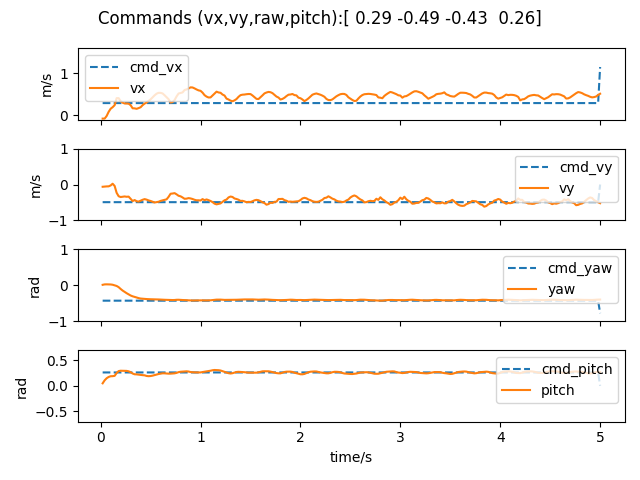
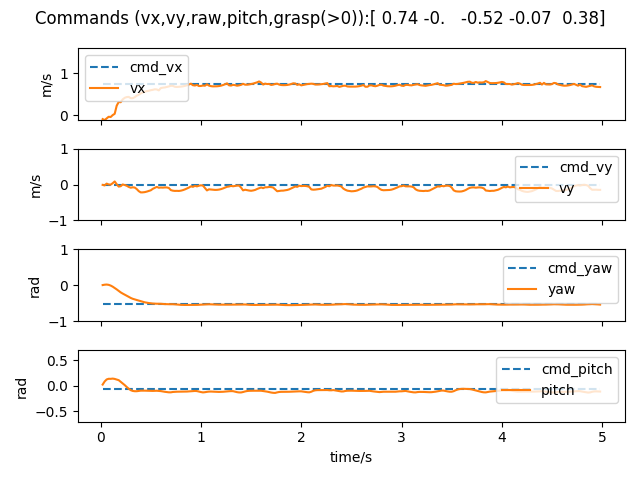
fix: plot vel bug

diff --git a/legged_gym/legged_gym/scripts/play.py b/legged_gym/legged_gym/scripts/play.py
@@ -168,7 +168,7 @@ def play(args):
                 actions = ppo_runner.alg.depth_actor(obs.detach(), hist_encoding=True, scandots_latent=depth_latent)
             else:
                 actions = policy(obs.detach(), hist_encoding=True, scandots_latent=depth_latent)
-        print(actions[:,-1])
+        # print(actions[:,-1])
         obs, _, rews, dones, infos = env.step(actions.detach())
         if args.web:
             web_viewer.render(fetch_results=True,
@@ -180,7 +180,7 @@ def play(args):
         cur_time = env.episode_length_buf[env.lookat_id].item() / 50
         time_hist.append(cur_time)
         cmd_hist.append(env.commands[env.lookat_id, :].tolist())
-        cur_state = env.base_lin_vel[env.lookat_id, :].tolist()[:2]
+        cur_state = env.root_states[env.lookat_id, 7:9].tolist() #base_lin_vel?
         cur_state.append(env.yaw[env.lookat_id].tolist())
         cur_state.append(env.pitch[env.lookat_id].tolist())
         state_hist.append(cur_state)
@@ -192,9 +192,9 @@ def play(args):
         
         id = env.lookat_id
         if cur_time == 0 or i == 5*int(env.max_episode_length)-1:
-            time_hist = np.array(time_hist[:-2])
-            cmd_hist = np.array(cmd_hist[:-2])
-            state_hist = np.array(state_hist[:-2])
+            time_hist = np.array(time_hist[:-3])
+            cmd_hist = np.array(cmd_hist[:-3])
+            state_hist = np.array(state_hist[:-3])
             fig,axs = plt.subplots(4,1,sharex=True)
             axs[0].plot(time_hist,cmd_hist[:,0],linestyle='--',label='cmd_vx')
             axs[0].plot(time_hist,state_hist[:,0],label='vx')
@@ -220,7 +220,7 @@ def play(args):
             axs[3].set_ylabel('rad')
             axs[3].set_ylim((-0.7,0.7))
             plt.xlabel('time/s')
-            fig.suptitle(f"Commands (vx,vy,raw,pitch):{np.round(cmd_hist[0,:], decimals=2)}")
+            fig.suptitle(f"Commands (vx,vy,raw,pitch,grasp(>0)):{np.round(cmd_hist[0,:], decimals=2)}")
             plt.tight_layout() 
             plt.savefig(f'../figs/cmd_following_{i}.png')
 

diff --git a/legged_gym/legged_gym/envs/go1g/go1g.py b/legged_gym/legged_gym/envs/go1g/go1g.py
@@ -591,6 +591,7 @@ class Go1G(BaseTask):
         self.commands[env_ids, 1] = torch_rand_float(self.command_ranges["lin_vel_y"][0], self.command_ranges["lin_vel_y"][1], (len(env_ids), 1), device=self.device).squeeze(1)
         self.commands[env_ids, 2] = torch_rand_float(self.command_ranges["yaw"][0], self.command_ranges["yaw"][1], (len(env_ids), 1), device=self.device).squeeze(1)
         self.commands[env_ids, 3] = torch_rand_float(self.command_ranges["pitch"][0], self.command_ranges["pitch"][1], (len(env_ids), 1), device=self.device).squeeze(1)
+        self.commands[env_ids, 4] = torch_rand_float(-1, 1,(len(env_ids), 1), device=self.device).squeeze(1)
         # if self.cfg.commands.heading_command:
         #     self.commands[env_ids, 3] = torch_rand_float(self.command_ranges["heading"][0], self.command_ranges["heading"][1], (len(env_ids), 1), device=self.device).squeeze(1)
         # else:
@@ -599,7 +600,7 @@ class Go1G(BaseTask):
 
         # set small commands to zero
         self.commands[env_ids, :2] *= torch.abs(self.commands[env_ids, :2]) > self.cfg.commands.lin_vel_clip
-        self.commands[env_ids, 2:] *= torch.abs(self.commands[env_ids, 2:]) > self.cfg.commands.ang_clip
+        self.commands[env_ids, 2:4] *= torch.abs(self.commands[env_ids, 2:4]) > self.cfg.commands.ang_clip
 
     def _compute_torques(self, actions):
         """ Compute torques from actions.
@@ -1308,6 +1309,11 @@ class Go1G(BaseTask):
     def _reward_tracking_pitch(self):
         rew = torch.exp(-torch.abs(self.commands[:, 3] - self.pitch))
         return rew
+    
+    def _reward_tracking_gripper(self):
+        close_right = self.commands[:, 4]*self.actions[:,-1]<0  # cmd>0 -- close -- action[-1]<0
+        rew = close_right.float()
+        return rew   
        
     def _reward_lin_vel_z(self):
         rew = torch.square(self.base_lin_vel[:, 2])

diff --git a/legged_gym/legged_gym/envs/go1g/go1g_config.py b/legged_gym/legged_gym/envs/go1g/go1g_config.py
@@ -82,7 +82,7 @@ class Go1GRoughCfg( LeggedRobotCfg ):
         n_scan = 132
         n_priv = 3+3 +3
         n_priv_latent = 4 + 1 + 14 +14
-        n_proprio = 3 + 2 + 2 + 4 + 2 + 13*3 + 4
+        n_proprio = 3 + 2 + 2 + 5 + 2 + 13*3 + 4
         history_len = 10
 
         num_observations = n_proprio + n_scan + history_len*n_proprio + n_priv_latent + n_priv #n_scan + n_proprio + n_priv #187 + 47 + 5 + 12 
@@ -114,6 +114,7 @@ class Go1GRoughCfg( LeggedRobotCfg ):
             tracking_lin_vel = 1.5
             tracking_yaw = 1.5  # 0.5
             tracking_pitch = 1.5  # 0.5
+            tracking_gripper = 0.5
             # regularization rewards
             lin_vel_z = -1.0
             ang_vel_xy = -0.05
@@ -158,7 +159,7 @@ class Go1GRoughCfg( LeggedRobotCfg ):
         y_range = [-0.4, 0.4]
 
     class commands( LeggedRobotCfg.commands):
-        num_commands = 4 # default: lin_vel_x, lin_vel_y, yaw, pitch
+        num_commands = 5 # default: lin_vel_x, lin_vel_y, yaw, pitch, gripper close
         class max_ranges:
             lin_vel_x = [0., 1.5] # min max [m/s]
             lin_vel_y = [-0.5, 0.5]   # min max [m/s]

diff --git a/TODO.md b/TODO.md
@@ -47,4 +47,5 @@ env_ids 和 robot_idx搞混了
 ### 000-06有效果
 
 ## 12.25
-1.negative-close ; positive-open
+1.cmd positive - action negative - close ; cmd negative - action positive - open
+2.reward scale for display
